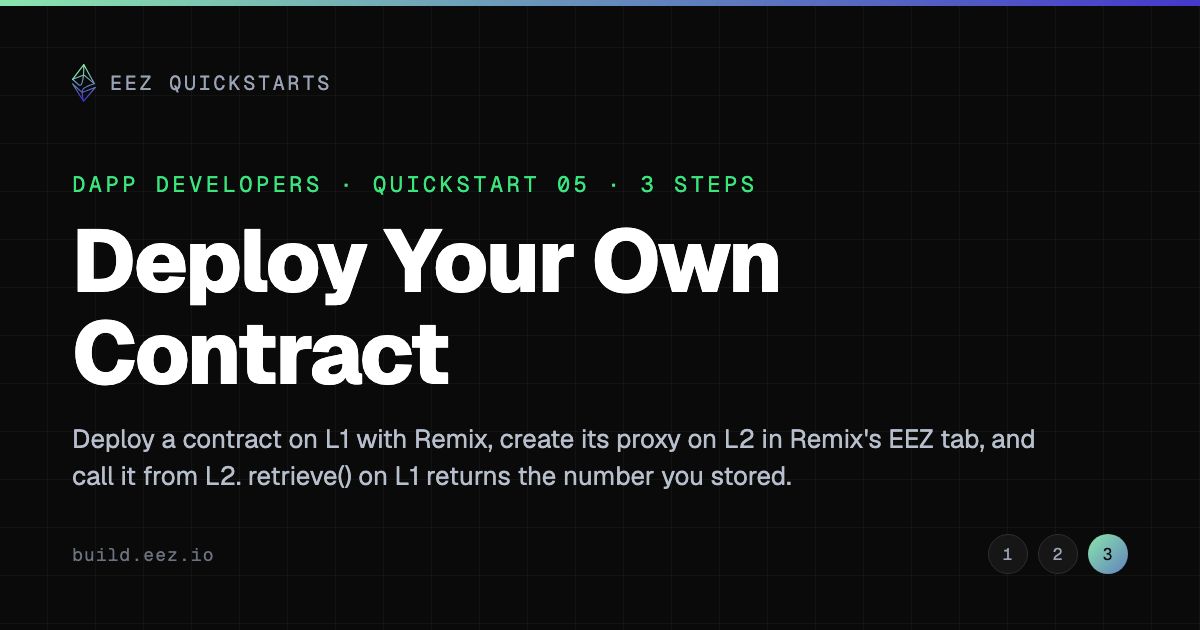
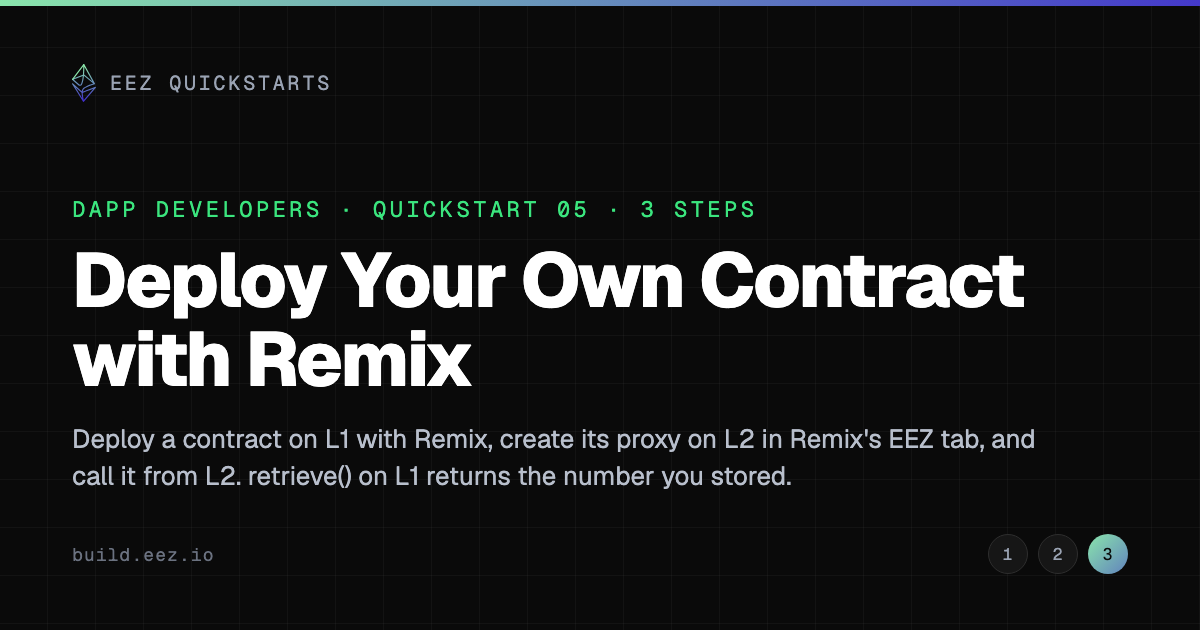
Card 05 title: Deploy Your Own Contract with Remix

Changed region(s): [[0.0617, 0.2714, 0.8633, 0.6333]]

diff --git a/dapp-developers/qs6-deploy-your-own-contract.html b/dapp-developers/qs6-deploy-your-own-contract.html
@@ -7,18 +7,18 @@
 <link rel="alternate" type="text/markdown" href="../llms.txt" title="llms.txt — agent-readable index">
 <link rel="alternate" type="text/markdown" href="../llms-full.txt" title="llms-full.txt — every walkthrough inlined">
 <link rel="alternate" type="text/markdown" href="qs6-deploy-your-own-contract.md" title="This card as markdown, for agents">
-<title>Deploy Your Own Contract — EEZ</title>
+<title>Deploy Your Own Contract with Remix — EEZ</title>
 <link rel="canonical" href="https://build.eez.io/dapp-developers/qs6-deploy-your-own-contract.html">
 <!-- og: generated by scripts/build-og.cjs -->
 <meta property="og:type" content="website">
 <meta property="og:site_name" content="EEZ Quickstarts">
-<meta property="og:title" content="Deploy Your Own Contract — EEZ Quickstarts">
+<meta property="og:title" content="Deploy Your Own Contract with Remix — EEZ Quickstarts">
 <meta property="og:description" content="Deploy a contract on L1 with Remix, create its proxy on L2 in Remix's EEZ tab, and call it from L2. retrieve() on L1 returns the number you stored.">
 <meta property="og:url" content="https://build.eez.io/dapp-developers/qs6-deploy-your-own-contract.html">
 <meta property="og:image" content="https://build.eez.io/assets/og/qs6-deploy-your-own-contract.png">
 <meta property="og:image:width" content="1200">
 <meta property="og:image:height" content="630">
-<meta property="og:image:alt" content="Deploy Your Own Contract — EEZ Quickstarts">
+<meta property="og:image:alt" content="Deploy Your Own Contract with Remix — EEZ Quickstarts">
 <meta name="twitter:card" content="summary_large_image">
 <!-- /og -->
 <link rel="preconnect" href="https://fonts.googleapis.com">
@@ -227,7 +227,7 @@
     <div style="display:flex;align-items:center;gap:18px;">
       <a class="back hdr-home" href="../index.html" aria-label="EEZ Quickstarts home"><img src="../favicon.svg" alt="" width="16" height="26">Quickstarts</a>
       <div class="hdr-dot" style="width:5px;height:5px;border-radius:50%;background:#2a2a2a;"></div>
-      <div style="font-size:22px;font-weight:600;color:#fff;">Deploy Your Own Contract</div>
+      <div style="font-size:22px;font-weight:600;color:#fff;">Deploy Your Own Contract with Remix</div>
       <a class="back hdr-rule" href="qs7-cross-chain-flash-loan.html" style="border-left:1px solid #2a2a2a;padding-left:22px;">NEXT WALKTHROUGH: Cross-Chain Flash Loan &rarr;</a>
       </div>
     <div style="display:flex;align-items:center;gap:22px;">
@@ -285,7 +285,7 @@
   <section id="intro" aria-labelledby="introTitle">
     <div class="intro-inner">
       <div class="intro-eyebrow">DAPP DEVELOPERS &#183; ETHEREUM MAINNET</div>
-      <h1 class="intro-title" id="introTitle">Deploy Your Own Contract</h1>
+      <h1 class="intro-title" id="introTitle">Deploy Your Own Contract with Remix</h1>
       <p class="intro-lede">Deploy a contract on L1 with Remix, give it a proxy on L2, and call it from L2. Each step lists its clicks, and the panel shows the upstream code they run.</p>
       <div class="intro-setup">
         <div class="intro-learn-label" style="margin:0 0 12px;">BEFORE YOU START</div>

diff --git a/dapp-developers/qs5-three-gotchas-before-you-build.html b/dapp-developers/qs5-three-gotchas-before-you-build.html
@@ -207,7 +207,7 @@
       <a class="back hdr-home" href="../index.html" aria-label="EEZ Quickstarts home"><img src="../favicon.svg" alt="" width="16" height="26">Quickstarts</a>
       <div class="hdr-dot" style="width:5px;height:5px;border-radius:50%;background:#2a2a2a;"></div>
       <div style="font-size:22px;font-weight:600;color:#fff;">Two Gotchas Before You Build</div>
-      <a class="back hdr-rule" href="qs6-deploy-your-own-contract.html" style="border-left:1px solid #2a2a2a;padding-left:22px;">NEXT WALKTHROUGH: Deploy Your Own Contract &rarr;</a>
+      <a class="back hdr-rule" href="qs6-deploy-your-own-contract.html" style="border-left:1px solid #2a2a2a;padding-left:22px;">NEXT WALKTHROUGH: Deploy Your Own Contract with Remix &rarr;</a>
       </div>
     <div style="display:flex;align-items:center;gap:22px;">
       <button id="btnHelp" type="button" title="How this page works" aria-label="How this page works" style="width:26px;height:26px;flex:none;background:#141414;border:1px solid #2a2a2a;border-radius:50%;color:var(--muted);font-family:var(--mono);font-size:13px;line-height:1;cursor:pointer;padding:0;">?</button>
@@ -318,7 +318,7 @@
         <button id="btnPlay" class="btn-play" style="font-size:16px;font-weight:600;color:var(--eez-ink-on-grad);background:var(--eez-grad-btn) border-box;border:1px solid transparent;border-radius:100px;padding:12px 28px;cursor:pointer;min-width:120px;">▶ Play</button>
         <button id="btnNext" class="btn" style="font-size:16px;color:#d8d8d8;background:#141414;border:1px solid #2a2a2a;border-radius:100px;padding:12px 22px;cursor:pointer;">Next step ›</button>
         <div id="dots" style="display:flex;align-items:center;gap:7px;"></div>
-        <a id="nextDemo" class="next-demo" href="qs6-deploy-your-own-contract.html"><span class="next-demo-text"><span class="next-demo-k">UP NEXT</span><span class="next-demo-t">Deploy Your Own Contract</span></span><span class="next-demo-arr" aria-hidden="true">&rarr;</span></a>
+        <a id="nextDemo" class="next-demo" href="qs6-deploy-your-own-contract.html"><span class="next-demo-text"><span class="next-demo-k">UP NEXT</span><span class="next-demo-t">Deploy Your Own Contract with Remix</span></span><span class="next-demo-arr" aria-hidden="true">&rarr;</span></a>
       </div>
     </div>
   </div>

diff --git a/index.html b/index.html
@@ -217,7 +217,7 @@ h1 .l{font-weight:300;color:#dcdcdc}
           <p class="card-hook">Two cross-chain gotchas to check before you build: msg.sender is the source's proxy, and a state-changing proxy call needs an entry verified in the same block.</p>
         </a>
         <a class="card" href="./dapp-developers/qs6-deploy-your-own-contract.html">
-          <div class="card-head"><h4 class="card-title"><span class="card-num">05</span>Deploy Your Own Contract</h4></div>
+          <div class="card-head"><h4 class="card-title"><span class="card-num">05</span>Deploy Your Own Contract with Remix</h4></div>
           <p class="card-hook">Deploy a contract on L1 with Remix, create its proxy on L2 in Remix's EEZ tab, and call it from L2. retrieve() on L1 returns the number you stored.</p>
         </a>
       </div>

diff --git a/skills/eez-dapp-quickstart/SKILL.md b/skills/eez-dapp-quickstart/SKILL.md
@@ -92,7 +92,7 @@ Your contracts call the proxy, not these functions, except to get or check a pro
 
 These are local fixtures with permissive proofs. Their successful local outcomes do not establish a deployed bridge's security or live cross-chain settlement.
 
-- **Deploy your own contract (card 05).** Not a local fixture: with the RollupX L2, deploy a contract on L1 with Remix, create its proxy on L2 in Remix's EEZ tab (an alpha), and call the proxy from L2 through the composer RPC `https://rollupx.eez.dev/composer/l2`. It spends real ETH, so rule 2 applies. On L1 the call runs through the proxy that stands for your L2 account, so the contract sees that proxy as `msg.sender`.
+- **Deploy your own contract with Remix (card 05).** Not a local fixture: with the RollupX L2, deploy a contract on L1 with Remix, create its proxy on L2 in Remix's EEZ tab (an alpha), and call the proxy from L2 through the composer RPC `https://rollupx.eez.dev/composer/l2`. It spends real ETH, so rule 2 applies. On L1 the call runs through the proxy that stands for your L2 account, so the contract sees that proxy as `msg.sender`.
 - **Cross-chain flash loan (card 06).** One L1 transaction borrows from a pool, sends the tokens to L2 through Bridge.sol, then calls an executor on L2 through its proxy. The executor's return leg releases the escrow on L1 inside that same call, so the pool's balance check after `onFlashLoan` passes; otherwise the whole L1 transaction reverts. Its L2 → L1 return leg runs nested inside the L1 → L2 call. Template: `script/e2e/scenarios/nested/L1_to_L2/flash-loan/E2EFlashLoan.s.sol`; run: `bash script/e2e/run/local/parallel.sh flash-loan`.
 - **Bridge tokens both ways (card 07).** Lock and mint, then burn and release: the origin bridge locks the token and calls the proxy that stands for the other chain's bridge; that side's `receiveTokens` mints a wrapped copy, and accepts the call only from its counterpart's proxy (rule 3; the fixture reverts `UnauthorizedCaller()` otherwise). Bridge.sol is a test fixture, not a production bridge. Templates: `script/e2e/scenarios/one_way/L1_to_L2/bridge/E2EBridge.s.sol` and `script/e2e/scenarios/one_way/L2_to_L1/bridgeL2/E2EBridgeL2.s.sol`; run: `bash script/e2e/run/local/parallel.sh bridge bridgeL2`, then `forge test --match-test test_BridgeTokens_Roundtrip`. How a production token route to EEZ-X works is not covered here.
 - **Branch on a remote value (q2).** Encode the read like any call, send it to the proxy as a `staticcall`, decode the return data and branch on it.
@@ -216,7 +216,7 @@ How the proxy address is derived (protocol researchers' card "How the address is
 - Card 02 · Follow One Call There and Back: https://build.eez.io/dapp-developers/qs2-read-your-side-of-it.md
 - Card 03 · Who Answered?: https://build.eez.io/dapp-developers/qs3-who-answered.md
 - Card 04 · Two Gotchas Before You Build: https://build.eez.io/dapp-developers/qs5-three-gotchas-before-you-build.md
-- Card 05 · Deploy Your Own Contract: https://build.eez.io/dapp-developers/qs6-deploy-your-own-contract.md
+- Card 05 · Deploy Your Own Contract with Remix: https://build.eez.io/dapp-developers/qs6-deploy-your-own-contract.md
 - Card 06 · Cross-Chain Flash Loan: https://build.eez.io/dapp-developers/qs7-cross-chain-flash-loan.md
 - Card 07 · Bridge Tokens Both Ways: https://build.eez.io/dapp-developers/qs8-bridge-tokens-both-ways.md
 - Reference pages q2–q8 (call, msg.sender, proxy check, content hash, manager guard, your cross-chain address, remote state): listed in https://build.eez.io/llms.txt and inlined in https://build.eez.io/llms-full.txt

diff --git a/PRODUCT.md b/PRODUCT.md
@@ -44,7 +44,7 @@ What a neighbor can't truthfully copy: every code panel is verbatim source cited
   - whether to keep the hero phrase "as naturally as a same-chain call";
   - the unmeasured "DEPLOY A CONTRACT · ~15 MIN" pill;
   - rewrapping pr1–4 and pr6, which overflow their panels and keep the CI geometry job red;
-  - the Deploy Your Own Contract card (qs6, Remix's EEZ tab) carries a Remix Settings → EEZ workaround until Remix builds the RollupX composers in.
+  - the Deploy Your Own Contract with Remix card (qs6, Remix's EEZ tab) carries a Remix Settings → EEZ workaround until Remix builds the RollupX composers in.
 
 ## Brand Commitments
 

diff --git a/dapp-developers/qs5-three-gotchas-before-you-build.md b/dapp-developers/qs5-three-gotchas-before-you-build.md
@@ -52,7 +52,7 @@ revert ExecutionNotInCurrentBlock(rollupId);
 
 ## Next
 
-[Deploy Your Own Contract](qs6-deploy-your-own-contract.md)
+[Deploy Your Own Contract with Remix](qs6-deploy-your-own-contract.md)
 
 ---
 

diff --git a/dapp-developers/qs6-deploy-your-own-contract.md b/dapp-developers/qs6-deploy-your-own-contract.md
@@ -1,4 +1,4 @@
-# Deploy Your Own Contract
+# Deploy Your Own Contract with Remix
 
 > Every code block is cited at a pinned commit; interfaces may move after it.
 
